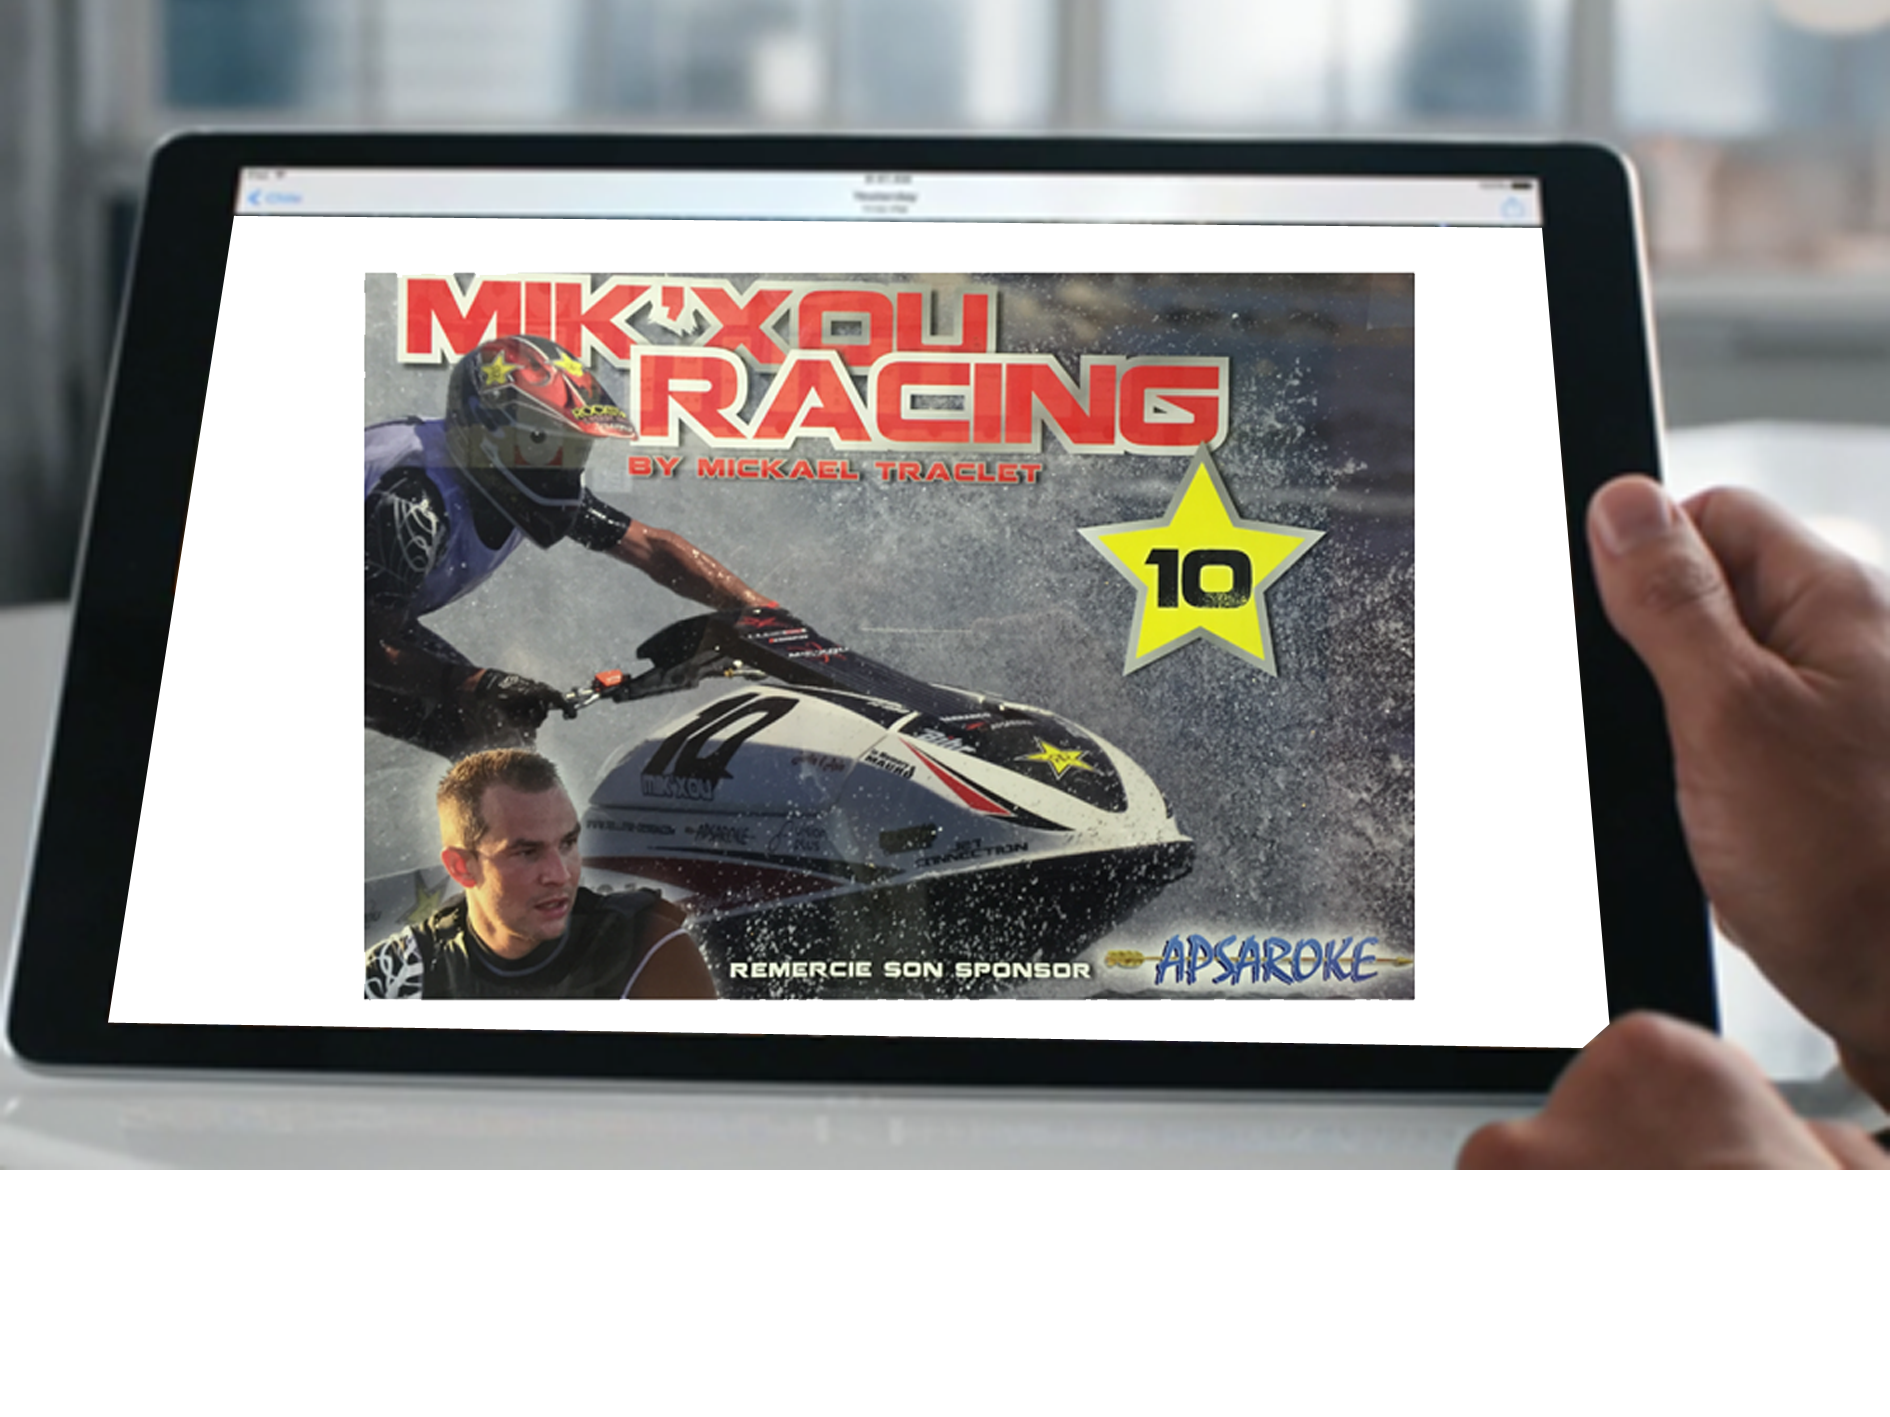
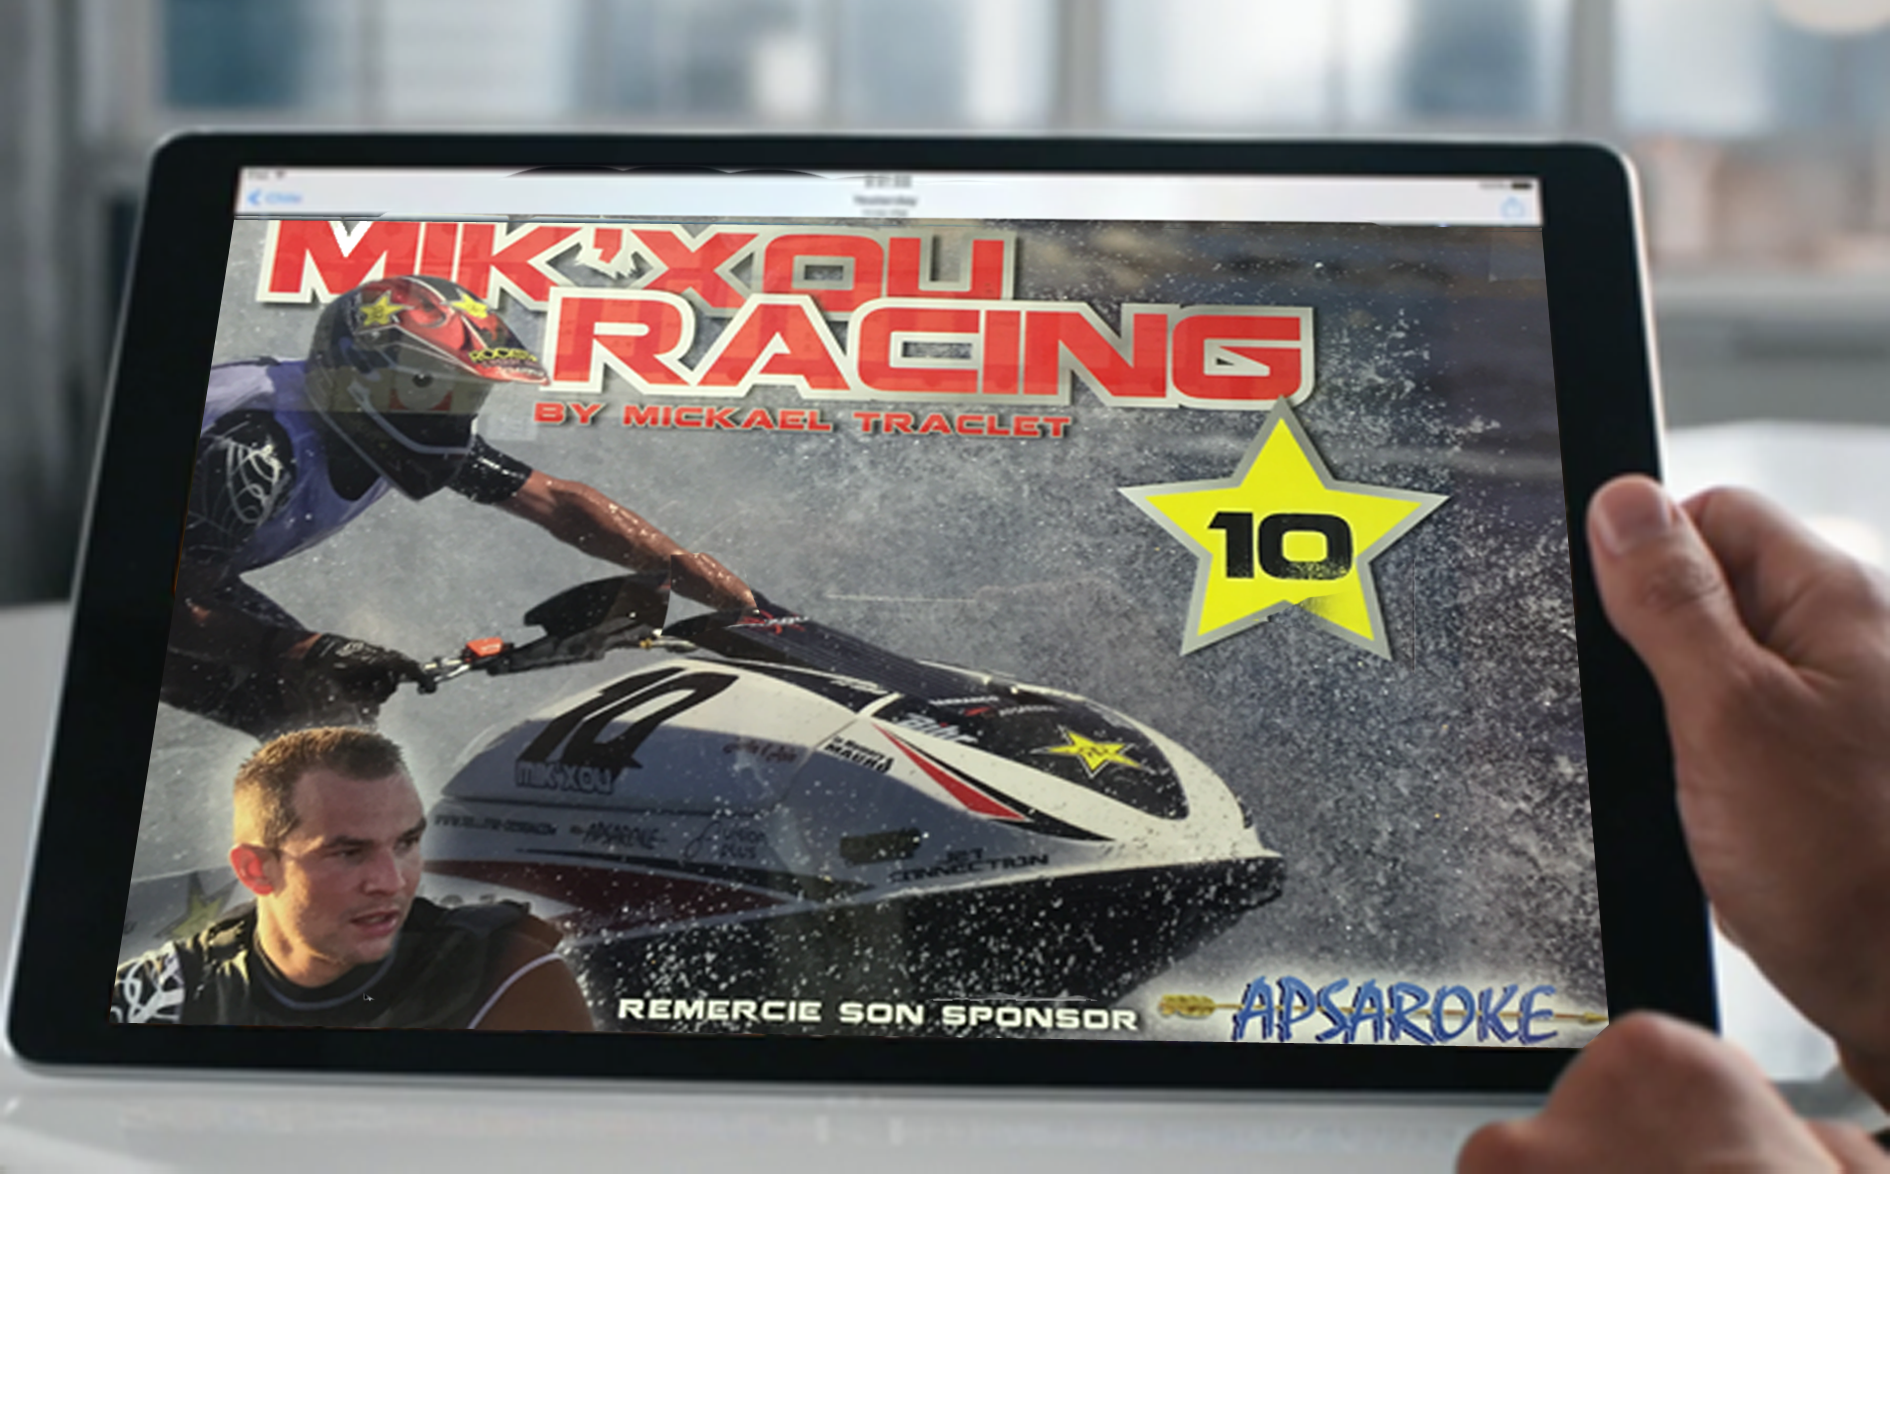
komit
komiy

diff --git a/Site_internet/sponsoring.html b/Site_internet/sponsoring.html
@@ -65,13 +65,12 @@
                             <div class="carousel-caption"></div>
                         </div>
                         <div class="item"><a href="image/sponso3.png">
-                            <div class="carousel-page"><img src="image/sponso3.png" class="img-responsive img-rounded" style="margin:0px auto;" /></a></div>
+                            <div class="carousel-page"><img src="image/IpadSponso2.png" class="img-responsive img-rounded" style="margin:0px auto;" /></a></div>
                             <div class="carousel-caption"></div>
                         </div>
                         <!-- Page 3 -->
                         <div class="item"><a href="image/sponso4.png">
-                            <div class="carousel-page"><img src="image/sponso4.png" class="img reponsive" style="margin:0px auto;height:800px;widht:800px;margin-top:-175px;margin-left:-40px;"/></a>
-                            </div>
+                            <div class="carousel-page"><img src="image/IpadSponso4.png" class="img-responsive img-rounded" style="margin:0px auto;" /></a></div>
                             <div class="carousel-caption"></div>
                         </div>
                     </div>

diff --git a/Site_internet/vibe.css b/Site_internet/vibe.css
@@ -55,19 +55,6 @@ body {
     
 }
 
-.blocDroit.nav {
-    margin-right: 5px;
-    margin-top: 10px;
-    margin-left: 5px;
-    float: left;
-    width: 100%;
-    background-color: none;
-    /* Fond blanc */
-   
-    color: black;
-    
-}
-
 section {
     margin-top: 20px;
     margin-left: auto;
@@ -120,18 +107,6 @@ li {
 .Apsaroke {
     font: bold 17px Mistral, Arial, Helvetica, sans-serif;
     color: #1c73d3;
-}
-
-#blocContact {
-    width: 210px;
-    background-color: white;
-    border-radius: 10px;
-    margin-left: 10px;
-    /* marge ext. gauche pour ne pas coller à l'article */
-    padding: 20px;
-    /* marge intérieure pour le texte */
-    font-size: 0.9em;
-    border-top: darkgrey 0.5px;
 }
 
 h3 {

diff --git a/Site_internet/portailapsaroke.css b/Site_internet/portailapsaroke.css
@@ -1,7 +1,7 @@
 html {
     /*    <!-- Attention une barre blanche non prévue persiste dans le fond, elle n'est pas liée au fond -->*/
     position: relative;
-    background-image: url("image/portail.png");
+    background-image: url("image/fondportail2.png");
     background-size: 100%;
     width: auto;
     height: 100%;
